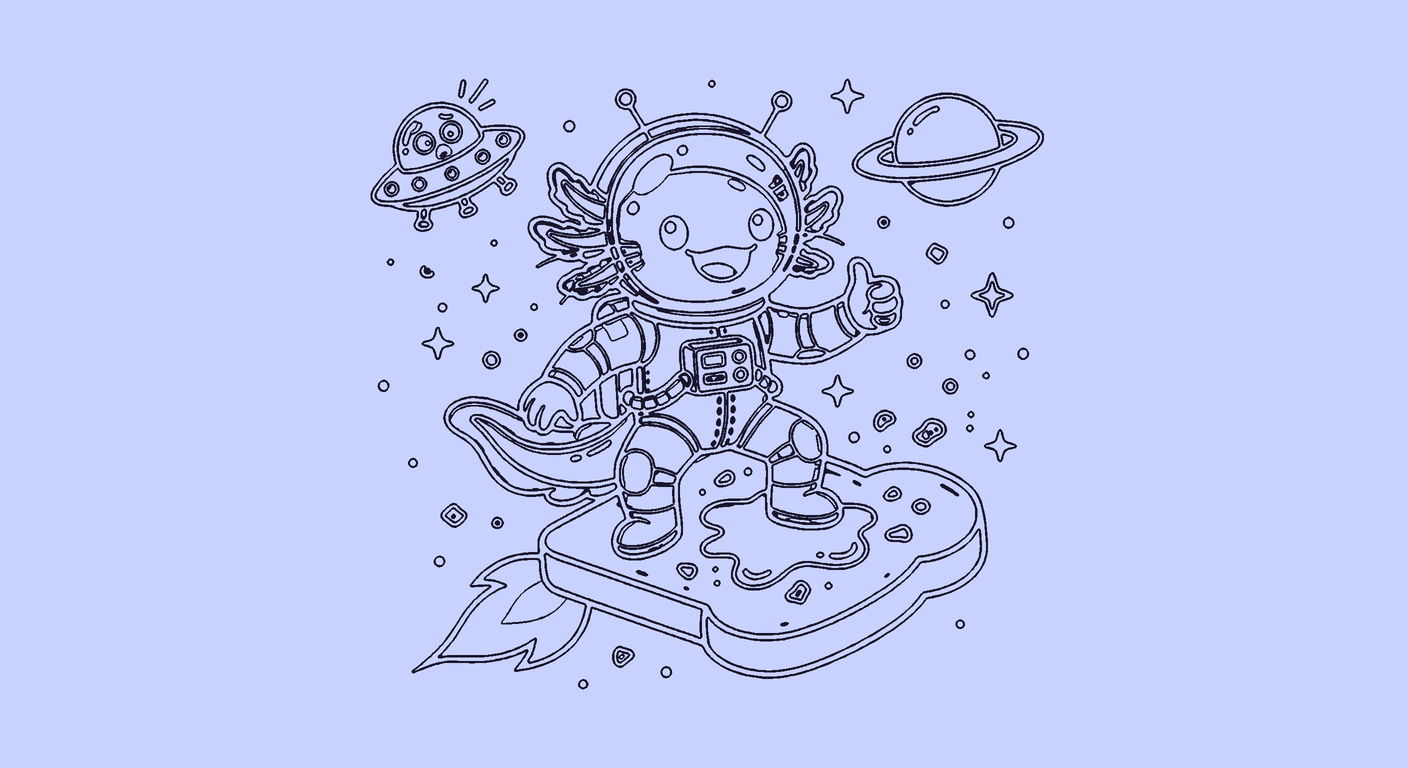
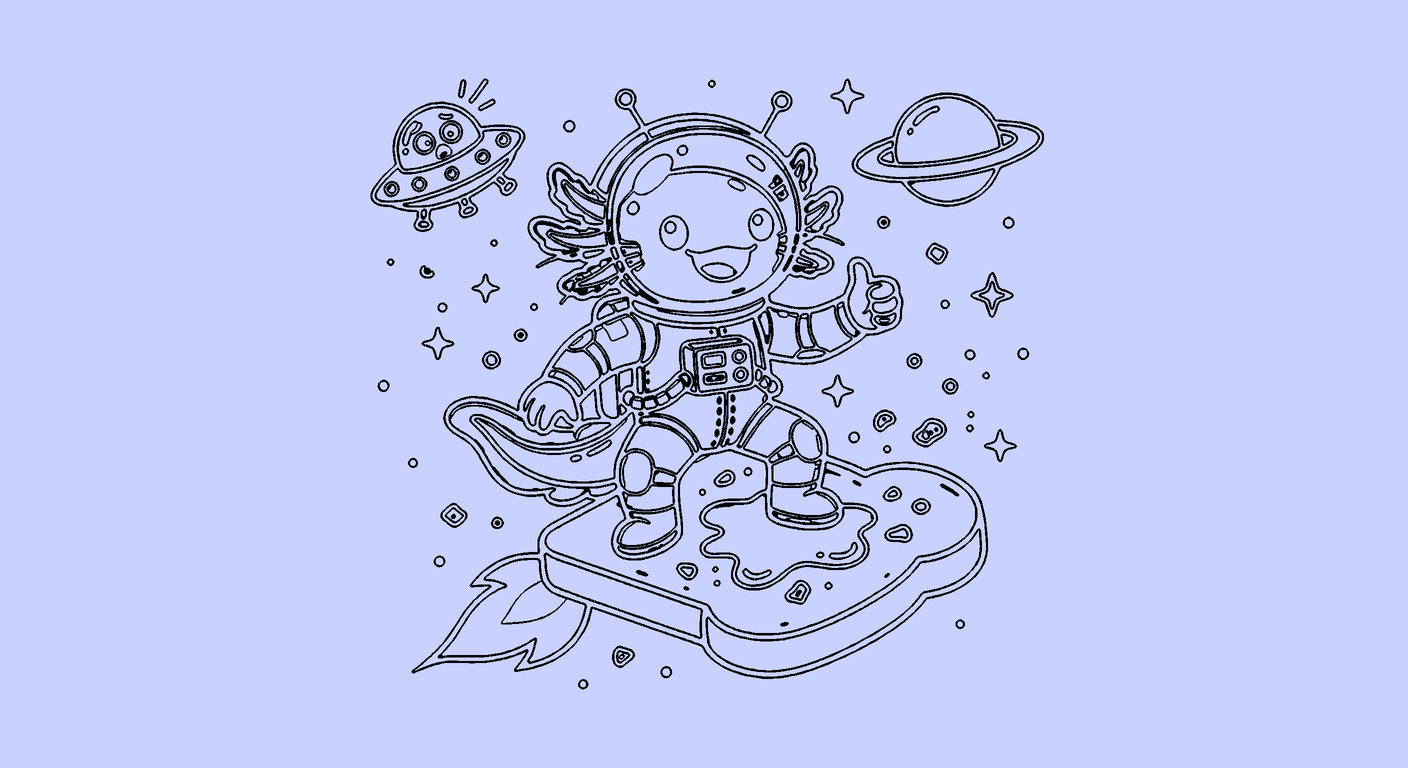
Add --outline-color and draw outlines in black by default
The lines used to take the artwork's darkest color. That color still decides
which shapes --outline lines keeps, but the lines are now black unless
--outline-color says otherwise.

diff --git a/src/unpixel/cli.py b/src/unpixel/cli.py
@@ -35,6 +35,7 @@ class Options:
     layers: str = "stacked"
     outline: str | None = None
     outline_width: float = 2.0
+    outline_color: tuple[int, int, int] = (0, 0, 0)
 
 
 def build_parser() -> argparse.ArgumentParser:
@@ -63,11 +64,13 @@ def build_parser() -> argparse.ArgumentParser:
     parser.add_argument("--detail", choices=["low", "medium", "high"], default="medium",
                         help="'low' if edges look jagged, 'high' if thin lines or small shapes get lost. Default: medium")
     parser.add_argument("--outline", choices=["lines", "edges"], metavar="MODE",
-                        help="keep only lines, in the darkest color. 'lines' keeps that color's own shapes, for artwork "
+                        help="keep only lines. 'lines' keeps the darkest color's own shapes, for artwork "
                              "that already has outlines; 'edges' draws a line wherever two colors meet, for flat "
                              "artwork with none. Default: off")
     parser.add_argument("--outline-width", type=float, metavar="PIXELS",
                         help="line width for --outline edges, in source pixels. Default: 2")
+    parser.add_argument("--outline-color", metavar="#RRGGBB",
+                        help="line color for --outline. Default: #000000")
     parser.add_argument("--preview-background", metavar="#RRGGBB",
                         help="color to show the result on in the preview and report, such as the surface it will "
                              "go on. It is not added to the SVG. Default: a color contrasting with the artwork")
@@ -90,7 +93,11 @@ def _options(args, parser) -> Options:
         if args.outline_width <= 0:
             parser.error("--outline-width must be above 0")
         options.outline_width = args.outline_width
+    if args.outline_color is not None and not args.outline:
+        parser.error("--outline-color needs --outline")
     try:
+        if args.outline_color is not None:
+            options.outline_color = parse_hex(args.outline_color)
         if args.background not in ("auto", "keep"):
             options.background_rgb = parse_hex(args.background)
             options.background = "color"
@@ -164,7 +171,7 @@ def main(argv: list[str] | None = None) -> int:
         return _fail(args, 2, str(error))
 
     if options.outline:
-        seg = apply_outline(seg, options.outline, options.outline_width)
+        seg = apply_outline(seg, options.outline, options.outline_width, options.outline_color)
 
     with stage(err, "Tracing shapes", show_progress):
         svg, layers = build_svg(seg.labels, seg.colors, width, height, options.layers, seg.speck_area,

diff --git a/tests/test_cli.py b/tests/test_cli.py
@@ -333,12 +333,12 @@ def test_open_with_no_report_is_a_usage_error(save, stamp):
     assert info.value.code == 2
 
 
-def test_outline_lines_keeps_only_the_darkest_color(save, ticket, capsys):
+def test_outline_lines_keeps_only_the_darkest_colors_shapes_in_black(save, ticket, capsys):
     code, result = run(capsys, save(ticket), "--outline", "lines")
     assert code == 0
     assert result["outline"] == "lines"
     assert len(result["layers"]) == 1
-    assert close(result["layers"][0]["color"], NAVY)
+    assert result["layers"][0]["color"] == "#000000"
     assert not has_color(result, RED)
     assert not has_color(result, CREAM)
     rgba = drawn(result)
@@ -354,7 +354,7 @@ def test_outline_edges_draws_a_line_where_flat_colors_meet(save, capsys):
     code, result = run(capsys, save(image), "--outline", "edges", "--outline-width", "4")
     assert code == 0
     assert len(result["layers"]) == 1
-    assert close(result["layers"][0]["color"], NAVY)
+    assert result["layers"][0]["color"] == "#000000"
     rgba = drawn(result)
     assert rgba[200, 200, 3] == 0  # inside a fill: empty
     assert rgba[200, 400, 3] == 0
@@ -374,4 +374,24 @@ def test_outline_lines_warns_when_the_darkest_color_is_a_fill(save, capsys):
 def test_outline_width_needs_edges(save, ticket):
     with pytest.raises(SystemExit) as stopped:
         main([str(save(ticket)), "--outline", "lines", "--outline-width", "3"])
+    assert stopped.value.code == 2
+
+
+@pytest.mark.parametrize("mode", ["lines", "edges"])
+def test_outline_color_sets_the_lines_color(save, ticket, capsys, mode):
+    code, result = run(capsys, save(ticket), "--outline", mode, "--outline-color", "#E6007E")
+    assert code == 0
+    assert [layer["color"] for layer in result["layers"]] == ["#E6007E"]
+    assert 'fill="#E6007E"' in open(result["svg"], encoding="utf-8").read()
+
+
+def test_outline_color_needs_outline(save, ticket):
+    with pytest.raises(SystemExit) as stopped:
+        main([str(save(ticket)), "--outline-color", "#E6007E"])
+    assert stopped.value.code == 2
+
+
+def test_outline_color_must_be_a_color(save, ticket):
+    with pytest.raises(SystemExit) as stopped:
+        main([str(save(ticket)), "--outline", "lines", "--outline-color", "pink"])
     assert stopped.value.code == 2

diff --git a/src/unpixel/outline.py b/src/unpixel/outline.py
@@ -1,4 +1,4 @@
-"""Reduce a segmentation to lines only: the artwork's own line color, or the edges between colors."""
+"""Reduce a segmentation to lines only: the darkest color's shapes, or the edges between colors."""
 
 from __future__ import annotations
 
@@ -29,8 +29,8 @@ def _edges(labels: np.ndarray, radius: int) -> np.ndarray:
     return ni.binary_dilation(boundary, iterations=radius)
 
 
-def apply_outline(seg: Segmentation, mode: str, width: float) -> Segmentation:
-    """Return the segmentation holding one color, the darkest, drawn only where the lines are."""
+def apply_outline(seg: Segmentation, mode: str, width: float, color: tuple[int, int, int]) -> Segmentation:
+    """Return the segmentation holding one color, the one asked for, drawn only where the lines are."""
     darkest = _darkest(seg.colors)
     if mode == "lines":
         mask = seg.labels == darkest
@@ -50,7 +50,7 @@ def apply_outline(seg: Segmentation, mode: str, width: float) -> Segmentation:
     return Segmentation(
         labels=labels,
         raw_labels=labels.copy(),
-        colors=[seg.colors[darkest]],
+        colors=[color],
         scale=seg.scale,
         speck_area=seg.speck_area,
         flat=seg.flat,

diff --git a/README.md b/README.md
@@ -97,8 +97,9 @@ unpixel INPUT [options]
 | `--also-transparent '#RRGGBB'` | A color. Repeatable | none | Enclosed areas should be see-through too, such as white inside letters. Thin marks that blend into that color go with it, such as fine grey lines on white. Use the exact value from the warning or from `layers`. |
 | `--layers MODE` | `stacked`, `cutout` | `stacked` | `stacked` overlaps colors slightly so no seams show (print, screen). `cutout` makes colors never overlap (plotters, screen printing). |
 | `--detail LEVEL` | `low`, `medium`, `high` | `medium` | `low` if edges look jagged. `high` if thin lines or small shapes get lost. |
-| `--outline MODE` | `lines`, `edges` | off | You want only lines, in the darkest color. `lines` keeps that color's own shapes, for artwork that already has outlines. `edges` draws a line wherever two colors meet, for flat artwork with none. |
+| `--outline MODE` | `lines`, `edges` | off | You want only lines. `lines` keeps the darkest color's own shapes, for artwork that already has outlines. `edges` draws a line wherever two colors meet, for flat artwork with none. |
 | `--outline-width PIXELS` | A number above 0 | `2` | The line width for `--outline edges`, in source pixels. |
+| `--outline-color '#RRGGBB'` | A color | `#000000` | The line color for `--outline`. |
 | `--preview-background '#RRGGBB'` | A color | contrasting color | You know the surface the design goes on: check it there. It only affects the preview and report, not the SVG. |
 | `-o`, `--output FILE.svg` | Path | next to the input | You want the output elsewhere. The report and preview go beside it, and missing folders are created. |
 | `--force` | | off | Overwrite existing output files. Without it, unpixel refuses to overwrite and changes nothing. |

diff --git a/examples/README.es.md b/examples/README.es.md
@@ -309,7 +309,7 @@ unpixel axolotl/input.png --colors 8 --outline edges --preview-background '#C9D2
 - **`lines`** conserva solo las formas del color más oscuro. Va bien con ilustraciones que ya tienen contorno, como esta. Si no lo tienen, el color más oscuro es un relleno, y unpixel te avisa.
 - **`edges`** dibuja una línea donde se tocan dos colores, así que funciona con ilustraciones planas sin contorno. Un contorno existente tiene dos lados, así que sale como línea doble, como aquí. El grosor se ajusta con `--outline-width`, en píxeles de la imagen original.
 
-Ambos escriben una sola capa, en el color más oscuro. Para cambiarlo, edita el `fill` de ese grupo en el SVG.
+Ambos escriben una sola capa, en negro. Elige otro color con `--outline-color '#RRGGBB'`.
 
 **Comprueba.** En una vista previa pequeña, las líneas finas pueden ocultar cortes. Abre el informe si las líneas deben ser continuas, por ejemplo para un plóter.
 

diff --git a/examples/README.md b/examples/README.md
@@ -309,7 +309,7 @@ unpixel axolotl/input.png --colors 8 --outline edges --preview-background '#C9D2
 - **`lines`** keeps only the darkest color's shapes. It suits artwork that already has an outline, like this one. On artwork with none, the darkest color is a fill, and unpixel warns you.
 - **`edges`** draws a line wherever two colors meet, so it works on flat artwork with no outline. An existing outline has two sides, so it comes out as a double line, as it does here. Set the thickness with `--outline-width`, in source pixels.
 
-Both write one layer, in the darkest color. To change it, edit that group's `fill` in the SVG.
+Both write one layer, in black. Choose another color with `--outline-color '#RRGGBB'`.
 
 **Check.** Thin lines shown on a small preview can hide gaps. Open the report if the lines must be continuous, such as for a cutter.
 
